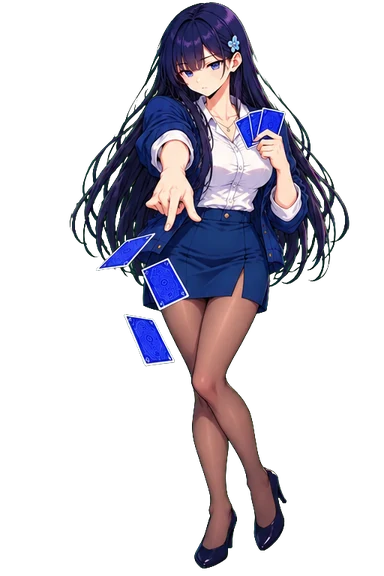
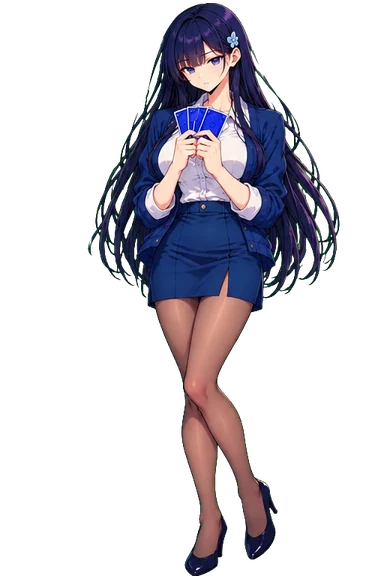
poker: 연서도 왼쪽 아래 전신 그림으로 (체크는 카드 던지는 그림이라 대기 그림으로)

Changed region(s): [[0.1562, 0.0, 0.9062, 1.0]]

diff --git a/web/src/lib/poker/assets.ts b/web/src/lib/poker/assets.ts
@@ -26,7 +26,7 @@ const dir = (l: Look) => {
 /** 스킨 그림이 들어와 있나 (로비 동작 · 터치 반응 그림이 있는지) */
 export const lookReady = (l: Look) => !!skinOf(l)?.ready;
 /** 왼쪽 아래 내 캐릭터용 전신 그림(hero-*.webp, 384×576)이 있는 그림 폴더 */
-const HERO_DIRS = new Set(["amy", "jinwoo", "taeyang", "jeongmin"]);
+const HERO_DIRS = new Set(["amy", "jinwoo", "taeyang", "jeongmin", "yeonseo"]);
 export const heroReady = (l: Look) => HERO_DIRS.has(dir(l));
 
 export const asset = {
